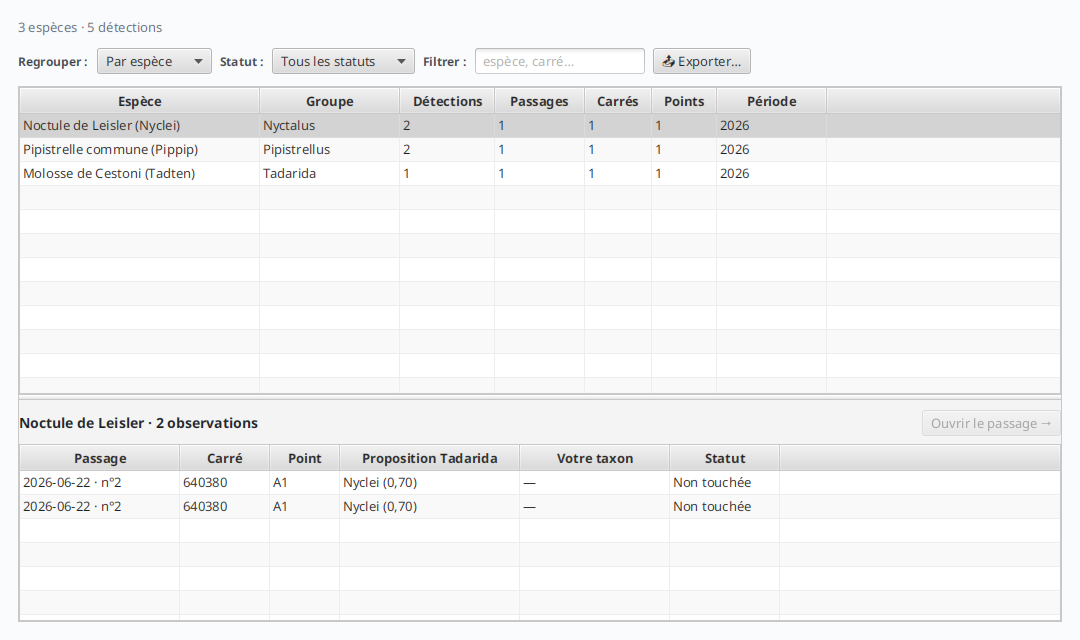
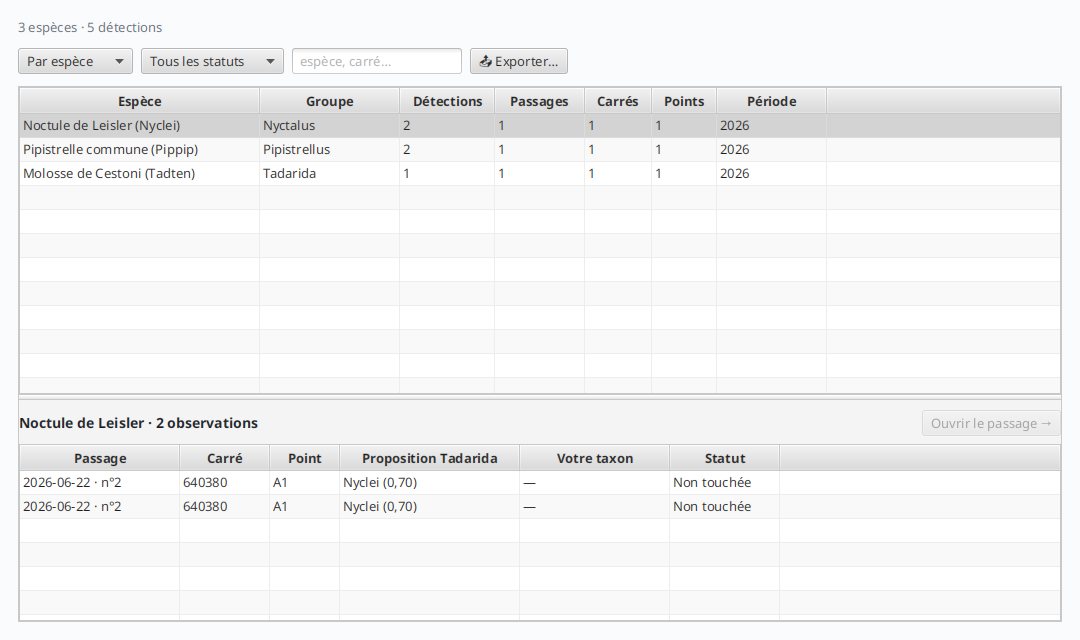
refactor(analyse): barre de filtres sans étiquettes (aligne sur M-Multisite)
Retire les labels « Regrouper / Statut / Filtrer » : chaque contrôle se décrit
par sa valeur (regroupement, statut affichent toujours une option) ou son
promptText (champ texte). Barre plus compacte, cohérente avec M-Multisite.
Classe CSS analyse-label devenue morte supprimée ; captures régénérées.

Changed region(s): [[0.0, 0.0625, 0.55, 0.125], [0.5806, 0.0625, 0.7028, 0.125]]

diff --git a/src/main/java/fr/univ_amu/iut/analyse/view/analyse.css b/src/main/java/fr/univ_amu/iut/analyse/view/analyse.css
@@ -13,12 +13,6 @@
     -fx-text-fill: #6a737d;
 }
 
-.analyse-label {
-    -fx-font-size: 12px;
-    -fx-text-fill: #495057;
-    -fx-font-weight: bold;
-}
-
 .analyse-barre {
     -fx-padding: 2 0 2 0;
 }